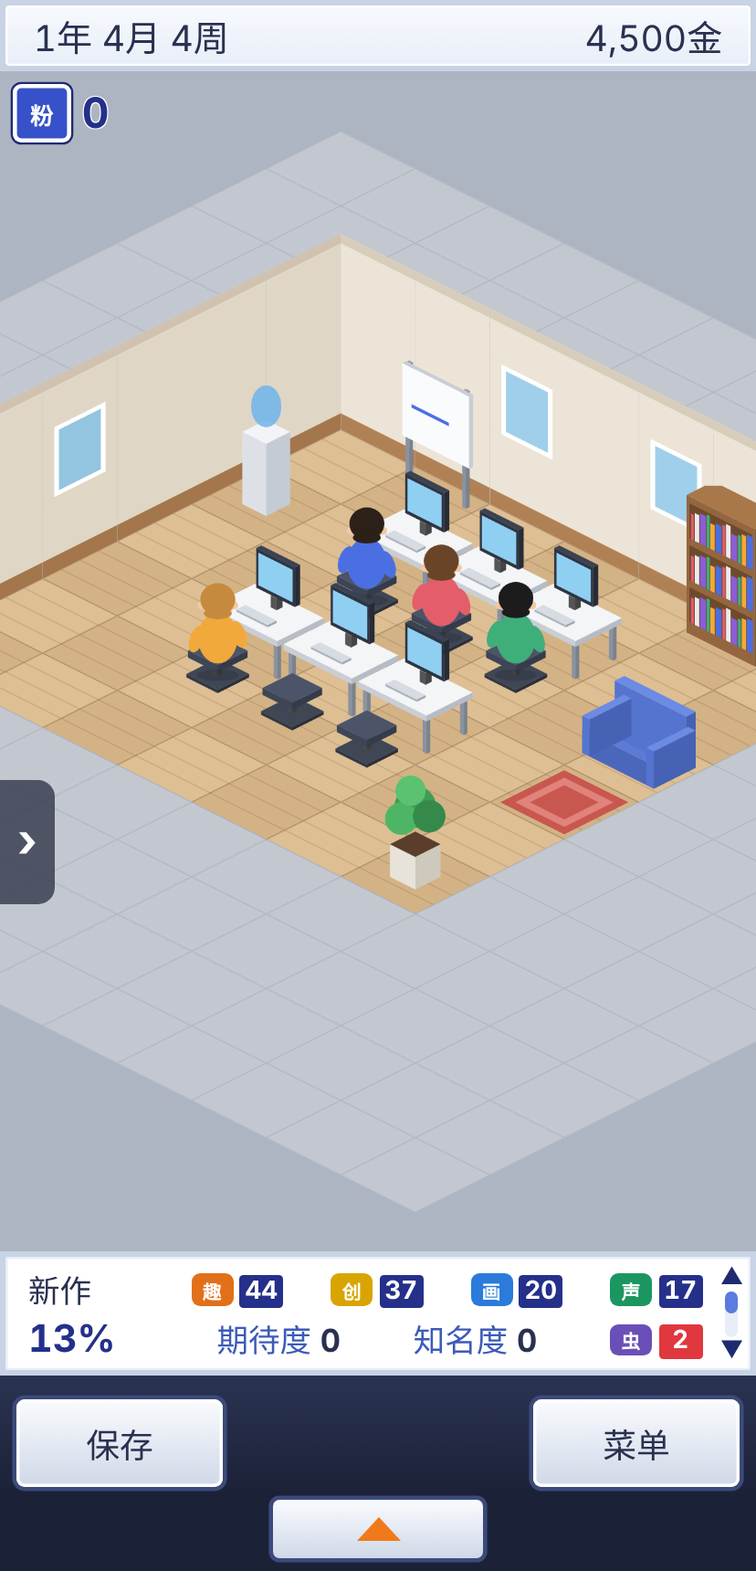
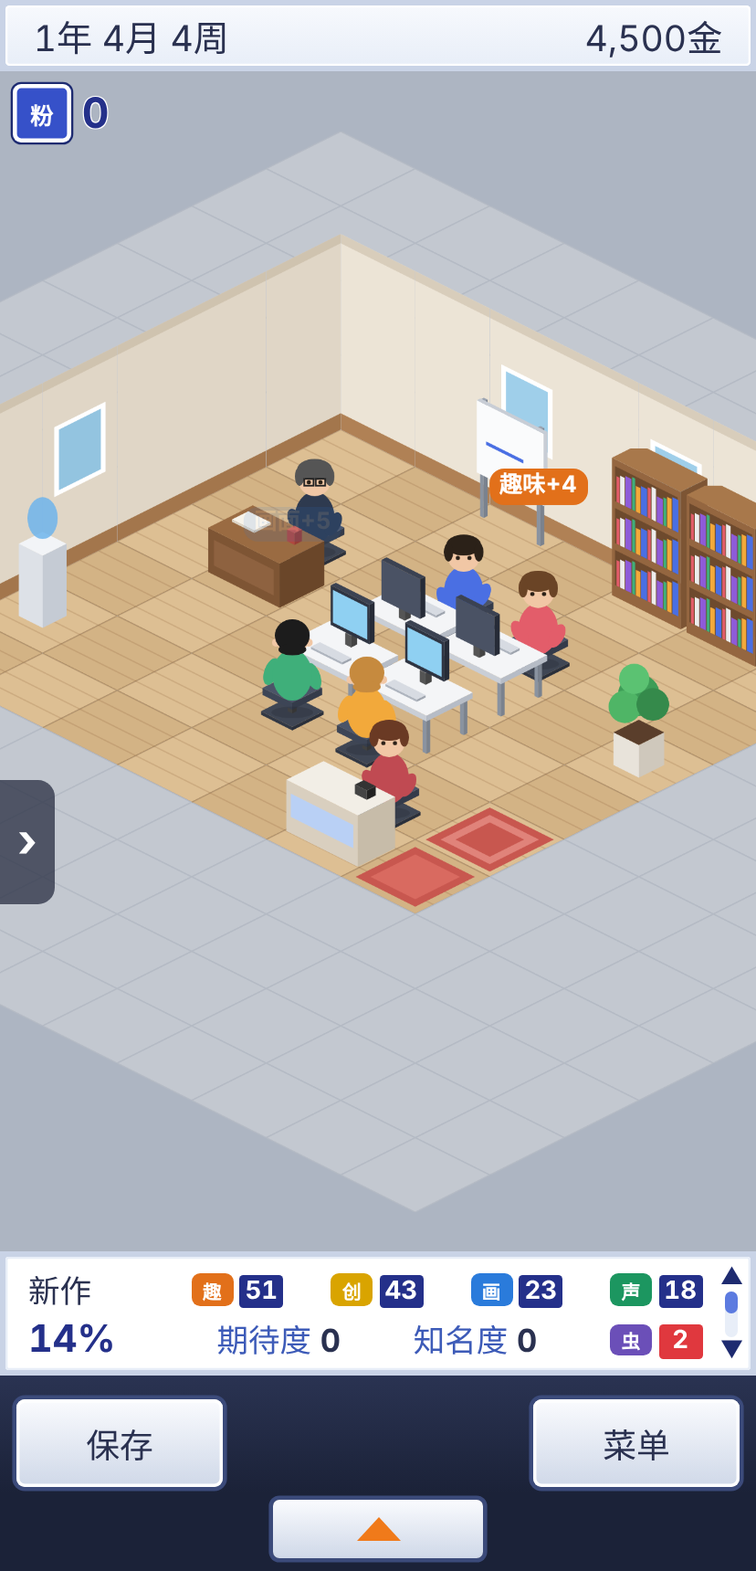
开发物语：初始办公室改为老板桌 + 秘书前台 + 4 人岛式工位，更新出图需求
- 场景：后排员工面朝镜头、前排背对镜头，新增老板、秘书及其桌子
- ASSETS.md：按 Codex 效果图风格重写，补图层拆分、正背面人物、对效果图的调整意见
- UI需求.md：补效果图反馈（底栏两侧按钮、抽屉把手），风格改为毛毡纸感
- docs/ui 截图更新

Claude-Session: https://claude.ai/code/session_01FMYqZQpsiHL5EF8t1x4YvR

diff --git a/games/kaifa-wuyu/index.html b/games/kaifa-wuyu/index.html
@@ -192,7 +192,10 @@ const M={
   wall_r:{w:64,h:200,ox:0,oy:168},wall_r_win:{w:64,h:200,ox:0,oy:168},wall_l:{w:64,h:200,ox:64,oy:168},wall_l_win:{w:64,h:200,ox:64,oy:168},
   desk:{...OBJ},chair:{w:128,h:96,ox:64,oy:64},shelf:{...OBJ},whiteboard:{...OBJ},plant:{...OBJ},sofa:{...OBJ},cooler:{...OBJ},
 };
-const CHAR_N=6;for(let i=0;i<CHAR_N;i++)for(const f of 'ab')M[`char_${i}_${f}`]={w:72,h:112,ox:36,oy:102};
+Object.assign(M,{desk_back:{...OBJ},boss_desk:{...OBJ},reception:{...OBJ},mat:{w:128,h:64,ox:64,oy:32}});
+const CHAR_N=4;const CH={w:72,h:112,ox:36,oy:102};
+for(let i=0;i<CHAR_N;i++)for(const v of ['back','front'])for(const f of 'ab')M[`char_${i}_${v}_${f}`]={...CH};
+for(const who of ['boss','secretary'])for(const f of 'ab')M[`${who}_${f}`]={...CH};
 
 // ================= 占位图绘制
 const SS=2;
@@ -217,6 +220,14 @@ const PAINT={
     box(g,cx,cy,{sx:.92,sy:.62,z:30,hh:5,top:'#F4F5F7',l:'#C9CED6',r:'#B6BCC6'});box(g,cx,cy,{y:-.14,sx:.08,sy:.08,z:35,hh:10,top:'#666',l:'#555',r:'#444'});
     box(g,cx,cy,{y:-.16,sx:.52,sy:.07,z:44,hh:34,top:'#3B4252',l:'#2E3442',r:'#262B37'});faceY(g,cx,cy,-.23,.23,-.125,47,75,'#8FD0F2');
     box(g,cx,cy,{y:.13,sx:.42,sy:.12,z:35,hh:2,top:'#D7DBE2',l:'#AEB4BE',r:'#9EA4AE'});},
+  desk_back(g,s){const cx=s.ox,cy=s.oy;for(const [a,b] of [[-.4,-.25],[.4,-.25],[-.4,.25],[.4,.25]])box(g,cx,cy,{x:a,y:b,sx:.05,sy:.05,hh:30,top:'#9AA3B0',l:'#8A93A0',r:'#7A828E'});
+    box(g,cx,cy,{sx:.92,sy:.62,z:30,hh:5,top:'#F4F5F7',l:'#C9CED6',r:'#B6BCC6'});box(g,cx,cy,{y:-.13,sx:.42,sy:.12,z:35,hh:2,top:'#D7DBE2',l:'#AEB4BE',r:'#9EA4AE'});
+    box(g,cx,cy,{y:.14,sx:.08,sy:.08,z:35,hh:10,top:'#666',l:'#555',r:'#444'});box(g,cx,cy,{y:.16,sx:.52,sy:.07,z:44,hh:34,top:'#3B4252',l:'#4A5264',r:'#262B37'});},
+  boss_desk(g,s){const cx=s.ox,cy=s.oy;box(g,cx,cy,{sx:.96,sy:.6,hh:38,top:'#9A6B42',l:'#7E5534',r:'#6A4629'});faceY(g,cx,cy,-.4,.4,.3,8,30,'#8E6240');
+    box(g,cx,cy,{x:-.25,y:-.05,sx:.3,sy:.22,z:38,hh:2,top:'#F7F3EA',l:'#DDD6C8',r:'#CFC7B8'});box(g,cx,cy,{x:.28,y:-.1,sx:.1,sy:.1,z:38,hh:10,top:'#C8574F',l:'#B04840',r:'#983C35'});},
+  reception(g,s){const cx=s.ox,cy=s.oy;box(g,cx,cy,{sx:.96,sy:.5,hh:44,top:'#F2EEE6',l:'#D9CFBF',r:'#C7BCA9'});faceY(g,cx,cy,-.42,.42,.25,14,34,'#B9D0F5');
+    box(g,cx,cy,{x:.25,y:-.08,sx:.16,sy:.12,z:44,hh:8,top:'#333',l:'#444',r:'#222'});},
+  mat(g){diamond(g,64,32,.8,'#C8574F');diamond(g,64,32,.6,'#D96A60');},
   chair(g,s){const cx=s.ox,cy=s.oy;box(g,cx,cy,{sx:.42,sy:.42,hh:3,top:'#3F4654',l:'#323844',r:'#2A2F3A'});box(g,cx,cy,{sx:.06,sy:.06,z:3,hh:14,top:'#555',l:'#4A4A4A',r:'#3E3E3E'});box(g,cx,cy,{sx:.4,sy:.4,z:17,hh:6,top:'#4B5468',l:'#3D4556',r:'#343B4A'});},
   shelf(g,s){const cx=s.ox,cy=s.oy;box(g,cx,cy,{y:-.28,sx:.92,sy:.36,hh:118,top:'#A8784B',l:'#946640',r:'#7D5534'});const cols=['#E35D6A','#4A6FE3','#F2A93B','#3FAF7A','#8E5BD8','#EDEDED'];let k=0;
     for(const z0 of [10,46,82]){faceY(g,cx,cy,-.42,.42,-.1,z0,z0+30,'#6E4A2D');let x=-.4;while(x<.36){const w=.04+(k%3)*.02;faceY(g,cx,cy,x,x+w,-.1,z0,z0+22+(k%4)*2,cols[(k++*5)%cols.length]);x+=w+.01;}}},
@@ -224,11 +235,16 @@ const PAINT={
   plant(g,s){const cx=s.ox,cy=s.oy;box(g,cx,cy,{sx:.34,sy:.34,hh:28,top:'#5A3E2B',l:'#E8E3DA',r:'#CFC8BC'});for(const [dx,dy,r,c] of [[0,-50,18,'#3E9D57'],[-12,-40,14,'#4FB566'],[12,-42,14,'#358A4B'],[-4,-64,13,'#5BC272']])circ(g,cx+dx,cy+dy-10,r,c);},
   sofa(g,s){const cx=s.ox,cy=s.oy;box(g,cx,cy,{sx:.96,sy:.56,z:4,hh:20,top:'#5B7BD6',l:'#4A67BC',r:'#3F59A6'});box(g,cx,cy,{y:-.22,sx:.96,sy:.13,z:4,hh:48,top:'#6C8BE3',l:'#5574CF',r:'#4762B5'});for(const a of [-.43,.43])box(g,cx,cy,{x:a,sx:.1,sy:.56,z:4,hh:32,top:'#6C8BE3',l:'#5574CF',r:'#4762B5'});},
   cooler(g,s){const cx=s.ox,cy=s.oy;box(g,cx,cy,{sx:.32,sy:.32,hh:62,top:'#F2F4F7',l:'#DDE1E7',r:'#C5CBD4'});ell(g,cx,cy-84,13,18,'rgba(110,180,235,.85)');},
-  char(g,s,k){const m=k.match(/char_(\d)_(a|b)/);const i=+m[1],b=m[2]==='b';const shirt=SHIRTS[i],hair=HAIRS[i],skin='#F1C7A5';
+  boss(g,s,k){front(g,'#2E3A4F','#555',k.endsWith('_b'),true);},
+  secretary(g,s,k){front(g,'#C04A52','#6A3A24',k.endsWith('_b'));},
+  char(g,s,k){const m=k.match(/char_(\d)_(back|front)_(a|b)/);const i=+m[1],b=m[3]==='b';const shirt=SHIRTS[i],hair=HAIRS[i],skin='#F1C7A5';if(m[2]==='front'){front(g,shirt,hair,b);return;}
     ell(g,36,100,18,5,'rgba(0,0,0,.12)');ell(g,18,66+(b?3:-1),6,12,shirt,.35);ell(g,54,66+(b?-1:3),6,12,shirt,-.35);ell(g,36,68,17,22,shirt);
     circ(g,22,40,3.5,skin);circ(g,50,40,3.5,skin);circ(g,36,37+(b?1:0),14,skin);ell(g,36,34+(b?1:0),15,14,hair);ell(g,36,46+(b?1:0),12,5,hair);}
 };
-function paint(k){const s=M[k];const cv=document.createElement('canvas');cv.width=s.w*SS;cv.height=s.h*SS;const g=cv.getContext('2d');g.scale(SS,SS);const fn=PAINT[k]||(k.startsWith('char_')?PAINT.char:null);if(fn)fn(g,s,k);return cv;}
+function front(g,shirt,hair,b,glasses){const skin='#F1C7A5',d=b?1:0;ell(g,36,100,18,5,'rgba(0,0,0,.12)');ell(g,36,70,17,22,shirt);
+  ell(g,20,74+(b?2:-1),6,11,shirt,-.5);ell(g,52,74+(b?-1:2),6,11,shirt,.5);circ(g,36,38+d,14,skin);ell(g,36,29+d,15,9,hair);ell(g,23,35+d,4,8,hair);ell(g,49,35+d,4,8,hair);
+  circ(g,31,40+d,1.8,'#2B2118');circ(g,41,40+d,1.8,'#2B2118');if(glasses){g.strokeStyle='#222';g.lineWidth=1.4;g.strokeRect(27,37+d,8,6);g.strokeRect(37,37+d,8,6);}}
+function paint(k){const s=M[k];const cv=document.createElement('canvas');cv.width=s.w*SS;cv.height=s.h*SS;const g=cv.getContext('2d');g.scale(SS,SS);const fn=PAINT[k]||(k.startsWith('char_')?PAINT.char:k.startsWith('boss_')?PAINT.boss:k.startsWith('secretary_')?PAINT.secretary:null);if(fn)fn(g,s,k);return cv;}
 
 // ================= WebGL 精灵批渲染
 const canvas=$('#gl');
@@ -255,16 +271,20 @@ function spr(k,x,y){if(nq>=MAXQ)return;const s=M[k],uv=UV[k];const x0=x-s.ox,y0=
 // ================= 场景布局
 const iso=(x,y)=>[(x-y)*TILE_W/2,(x+y)*TILE_H/2];
 const tc=(x,y)=>iso(x+.5,y+.5);
-const SEATS=[[2,1],[3,1],[4,1],[2,3],[3,3],[4,3]];
+// 4 人岛式工位：后排(y=2 的桌)人坐在桌后、面朝镜头；前排(y=3 的桌)人背对镜头
+const SEATS=[{d:[3,2],k:'b'},{d:[4,2],k:'b'},{d:[3,3],k:'a'},{d:[4,3],k:'a'}];
+const BOSS={d:[1,2]},SEC_SPOT={d:[5,5]};
 const SEAT_OFF=[22.4,-11.2];
-const DECOR=[['whiteboard',1,0],['shelf',5,0],['plant',6,0],['cooler',0,1],['sofa',6,2],['plant',0,5],['plant',6,5]];
+const DECOR=[['whiteboard',2,0],['shelf',4,0],['shelf',5,0],['plant',6,0],['cooler',0,4],['plant',0,5],['plant',6,2]];
 let staticFlat=[];
 function buildStatic(){staticFlat=[];
   for(let y=-4;y<ROOM_H+4;y++)for(let x=-4;x<ROOM_W+4;x++){const inRoom=x>=0&&y>=0&&x<ROOM_W&&y<ROOM_H;const [sx,sy]=tc(x,y);staticFlat.push([inRoom?((x+y)%2?'floor_b':'floor_a'):'outside',sx,sy]);}
-  {const [sx,sy]=tc(6,3);staticFlat.push(['rug',sx,sy]);}
+  {const [sx,sy]=tc(6,4);staticFlat.push(['rug',sx,sy]);}{const [sx,sy]=tc(6,5);staticFlat.push(['mat',sx,sy]);}
   for(let y=ROOM_H-1;y>=0;y--){const [sx,sy]=iso(0,y);staticFlat.push([y===3?'wall_l_win':'wall_l',sx,sy]);}
   for(let x=0;x<ROOM_W;x++){const [sx,sy]=iso(x,0);staticFlat.push([(x===2||x===4)?'wall_r_win':'wall_r',sx,sy]);}}
-function seatWorld(i){const [x,y]=SEATS[i];const [sx,sy]=tc(x,y+1);return [sx+SEAT_OFF[0],sy+SEAT_OFF[1]];}
+// k:'a' 人在桌前(y+1)背对镜头；k:'b' 人在桌后(y-1)面朝镜头。返回 [世界x, 世界y, 排序深度]
+function deskSeat(d,k){const [x,y]=d;if(k==='a'){const [sx,sy]=tc(x,y+1);return [sx+SEAT_OFF[0],sy+SEAT_OFF[1],x+y+.65];}const [sx,sy]=tc(x,y-1);return [sx-SEAT_OFF[0],sy-SEAT_OFF[1],x+y-.65];}
+function seatWorld(i){const s=SEATS[i];return deskSeat(s.d,s.k);}
 
 // ================= 镜头
 const cam={x:0,y:0,z:1,fit:true};let stageW=1,stageH=1;
@@ -331,7 +351,7 @@ function planForm(){const used=Object.values(plan.policy).reduce((a,b)=>a+b,0);
       row('类型',GN[plan.genre].n,GN[plan.genre],()=>picker('选择类型',GENRES.map(g=>({v:g.id,label:g.n,sub:'初'})),v=>{plan.genre=v;planForm();},planForm)),
       row('内容',TN[plan.type].n,TN[plan.type],()=>picker('选择内容',TYPES.map(t=>({v:t.id,label:t.n,sub:'初'})),v=>{plan.type=v;planForm();},planForm)),
       row('方针',used?`已分配 ${used} 点`:'普通开发',null,policyDlg),
-      h('div',{class:'staffstrip'},...S.staff.map(s=>h('i',{style:`background:${SHIRTS[s.look]}`})))));
+      h('div',{class:'staffstrip'},...S.staff.map(s=>h('i',{style:`background:${SHIRTS[s.look%4]}`})))));
   openDlg('新企划书',body,okFoot('确定',confirmPlan),[null,{label:'返回',fn:()=>{plan=null;closeDlg();}}]);$('#dlg').onclick=null;}
 function confirmPlan(){if(S.money<DEV_FEE){talk(['资金不够开发费用了……']);return;}
   talk(['企划书要交给谁来写呢？','剧本能力越高，游戏的趣味和创新越好。'],()=>picker('企划书负责人',[...S.staff].sort((a,b)=>b.scen-a.scen).map(s=>({v:s.id,label:s.name,sub:`${JOBN[s.job]} · 剧本 ${s.scen}`})),id=>{closeDlg();startProject(id);},planForm));}
@@ -430,10 +450,11 @@ function tapAt(x,y){for(const s of S.staff){const [wx,wy]=seatWorld(s.seat);cons
 function draw(t){if(!gl)return;gl.viewport(0,0,canvas.width,canvas.height);gl.clearColor(.68,.71,.76,1);gl.clear(gl.COLOR_BUFFER_BIT);
   nq=0;for(const [k,x,y] of staticFlat)spr(k,x,y);const items=[];
   for(const [k,x,y] of DECOR){const [sx,sy]=tc(x,y);items.push([x+y,k,sx,sy]);}
-  for(const [x,y] of SEATS){const [sx,sy]=tc(x,y);items.push([x+y,'desk',sx,sy]);}
+  for(const s of SEATS){const [x,y]=s.d;const [sx,sy]=tc(x,y);items.push([x+y,s.k==='a'?'desk':'desk_back',sx,sy]);}
+  for(const [who,o,desk] of [['boss',BOSS,'boss_desk'],['secretary',SEC_SPOT,'reception']]){const [x,y]=o.d;const [sx,sy]=tc(x,y);items.push([x+y,desk,sx,sy]);const [wx,wy,dd]=deskSeat(o.d,'b');items.push([dd-.01,'chair',wx,wy]);items.push([dd,`${who}_${Math.floor(t*.7+(who==='boss'?0:.5))%2?'b':'a'}`,wx,wy]);}
   const working=!!(S.project&&!S.project.awaiting)&&!blocking();
-  for(let i=0;i<SEATS.length;i++){const [x,y]=SEATS[i];const [wx,wy]=seatWorld(i);items.push([x+y+.64,'chair',wx,wy]);}
-  for(const s of S.staff){const [x,y]=SEATS[s.seat];const [wx,wy]=seatWorld(s.seat);const f=working?(Math.floor(t*5+s.seat*1.7)%2?'b':'a'):'a';items.push([x+y+.65,`char_${s.look%CHAR_N}_${f}`,wx,wy+(working?0:Math.sin(t*1.5+s.seat)*1.2)]);}
+  for(let i=0;i<SEATS.length;i++){const [wx,wy,dd]=seatWorld(i);items.push([dd-.01,'chair',wx,wy]);}
+  for(const s of S.staff){const [wx,wy,dd]=seatWorld(s.seat);const f=working?(Math.floor(t*5+s.seat*1.7)%2?'b':'a'):'a';items.push([dd,`char_${s.look%CHAR_N}_${SEATS[s.seat].k==='a'?'back':'front'}_${f}`,wx,wy+(working?0:Math.sin(t*1.5+s.seat)*1.2)]);}
   items.sort((a,b)=>a[0]-b[0]);for(const it of items)spr(it[1],it[2],it[3]);
   gl.uniform2f(uRes,stageW,stageH);gl.uniform3f(uCam,cam.x,cam.y,cam.z);gl.bindBuffer(gl.ARRAY_BUFFER,buf);gl.bufferSubData(gl.ARRAY_BUFFER,0,vdata.subarray(0,nq*48));gl.drawArrays(gl.TRIANGLES,0,nq*6);}
 let last=performance.now();

diff --git a/games/kaifa-wuyu/src/game.js b/games/kaifa-wuyu/src/game.js
@@ -34,7 +34,10 @@ const M={
   wall_r:{w:64,h:200,ox:0,oy:168},wall_r_win:{w:64,h:200,ox:0,oy:168},wall_l:{w:64,h:200,ox:64,oy:168},wall_l_win:{w:64,h:200,ox:64,oy:168},
   desk:{...OBJ},chair:{w:128,h:96,ox:64,oy:64},shelf:{...OBJ},whiteboard:{...OBJ},plant:{...OBJ},sofa:{...OBJ},cooler:{...OBJ},
 };
-const CHAR_N=6;for(let i=0;i<CHAR_N;i++)for(const f of 'ab')M[`char_${i}_${f}`]={w:72,h:112,ox:36,oy:102};
+Object.assign(M,{desk_back:{...OBJ},boss_desk:{...OBJ},reception:{...OBJ},mat:{w:128,h:64,ox:64,oy:32}});
+const CHAR_N=4;const CH={w:72,h:112,ox:36,oy:102};
+for(let i=0;i<CHAR_N;i++)for(const v of ['back','front'])for(const f of 'ab')M[`char_${i}_${v}_${f}`]={...CH};
+for(const who of ['boss','secretary'])for(const f of 'ab')M[`${who}_${f}`]={...CH};
 
 // ================= 占位图绘制
 const SS=2;
@@ -59,6 +62,14 @@ const PAINT={
     box(g,cx,cy,{sx:.92,sy:.62,z:30,hh:5,top:'#F4F5F7',l:'#C9CED6',r:'#B6BCC6'});box(g,cx,cy,{y:-.14,sx:.08,sy:.08,z:35,hh:10,top:'#666',l:'#555',r:'#444'});
     box(g,cx,cy,{y:-.16,sx:.52,sy:.07,z:44,hh:34,top:'#3B4252',l:'#2E3442',r:'#262B37'});faceY(g,cx,cy,-.23,.23,-.125,47,75,'#8FD0F2');
     box(g,cx,cy,{y:.13,sx:.42,sy:.12,z:35,hh:2,top:'#D7DBE2',l:'#AEB4BE',r:'#9EA4AE'});},
+  desk_back(g,s){const cx=s.ox,cy=s.oy;for(const [a,b] of [[-.4,-.25],[.4,-.25],[-.4,.25],[.4,.25]])box(g,cx,cy,{x:a,y:b,sx:.05,sy:.05,hh:30,top:'#9AA3B0',l:'#8A93A0',r:'#7A828E'});
+    box(g,cx,cy,{sx:.92,sy:.62,z:30,hh:5,top:'#F4F5F7',l:'#C9CED6',r:'#B6BCC6'});box(g,cx,cy,{y:-.13,sx:.42,sy:.12,z:35,hh:2,top:'#D7DBE2',l:'#AEB4BE',r:'#9EA4AE'});
+    box(g,cx,cy,{y:.14,sx:.08,sy:.08,z:35,hh:10,top:'#666',l:'#555',r:'#444'});box(g,cx,cy,{y:.16,sx:.52,sy:.07,z:44,hh:34,top:'#3B4252',l:'#4A5264',r:'#262B37'});},
+  boss_desk(g,s){const cx=s.ox,cy=s.oy;box(g,cx,cy,{sx:.96,sy:.6,hh:38,top:'#9A6B42',l:'#7E5534',r:'#6A4629'});faceY(g,cx,cy,-.4,.4,.3,8,30,'#8E6240');
+    box(g,cx,cy,{x:-.25,y:-.05,sx:.3,sy:.22,z:38,hh:2,top:'#F7F3EA',l:'#DDD6C8',r:'#CFC7B8'});box(g,cx,cy,{x:.28,y:-.1,sx:.1,sy:.1,z:38,hh:10,top:'#C8574F',l:'#B04840',r:'#983C35'});},
+  reception(g,s){const cx=s.ox,cy=s.oy;box(g,cx,cy,{sx:.96,sy:.5,hh:44,top:'#F2EEE6',l:'#D9CFBF',r:'#C7BCA9'});faceY(g,cx,cy,-.42,.42,.25,14,34,'#B9D0F5');
+    box(g,cx,cy,{x:.25,y:-.08,sx:.16,sy:.12,z:44,hh:8,top:'#333',l:'#444',r:'#222'});},
+  mat(g){diamond(g,64,32,.8,'#C8574F');diamond(g,64,32,.6,'#D96A60');},
   chair(g,s){const cx=s.ox,cy=s.oy;box(g,cx,cy,{sx:.42,sy:.42,hh:3,top:'#3F4654',l:'#323844',r:'#2A2F3A'});box(g,cx,cy,{sx:.06,sy:.06,z:3,hh:14,top:'#555',l:'#4A4A4A',r:'#3E3E3E'});box(g,cx,cy,{sx:.4,sy:.4,z:17,hh:6,top:'#4B5468',l:'#3D4556',r:'#343B4A'});},
   shelf(g,s){const cx=s.ox,cy=s.oy;box(g,cx,cy,{y:-.28,sx:.92,sy:.36,hh:118,top:'#A8784B',l:'#946640',r:'#7D5534'});const cols=['#E35D6A','#4A6FE3','#F2A93B','#3FAF7A','#8E5BD8','#EDEDED'];let k=0;
     for(const z0 of [10,46,82]){faceY(g,cx,cy,-.42,.42,-.1,z0,z0+30,'#6E4A2D');let x=-.4;while(x<.36){const w=.04+(k%3)*.02;faceY(g,cx,cy,x,x+w,-.1,z0,z0+22+(k%4)*2,cols[(k++*5)%cols.length]);x+=w+.01;}}},
@@ -66,11 +77,16 @@ const PAINT={
   plant(g,s){const cx=s.ox,cy=s.oy;box(g,cx,cy,{sx:.34,sy:.34,hh:28,top:'#5A3E2B',l:'#E8E3DA',r:'#CFC8BC'});for(const [dx,dy,r,c] of [[0,-50,18,'#3E9D57'],[-12,-40,14,'#4FB566'],[12,-42,14,'#358A4B'],[-4,-64,13,'#5BC272']])circ(g,cx+dx,cy+dy-10,r,c);},
   sofa(g,s){const cx=s.ox,cy=s.oy;box(g,cx,cy,{sx:.96,sy:.56,z:4,hh:20,top:'#5B7BD6',l:'#4A67BC',r:'#3F59A6'});box(g,cx,cy,{y:-.22,sx:.96,sy:.13,z:4,hh:48,top:'#6C8BE3',l:'#5574CF',r:'#4762B5'});for(const a of [-.43,.43])box(g,cx,cy,{x:a,sx:.1,sy:.56,z:4,hh:32,top:'#6C8BE3',l:'#5574CF',r:'#4762B5'});},
   cooler(g,s){const cx=s.ox,cy=s.oy;box(g,cx,cy,{sx:.32,sy:.32,hh:62,top:'#F2F4F7',l:'#DDE1E7',r:'#C5CBD4'});ell(g,cx,cy-84,13,18,'rgba(110,180,235,.85)');},
-  char(g,s,k){const m=k.match(/char_(\d)_(a|b)/);const i=+m[1],b=m[2]==='b';const shirt=SHIRTS[i],hair=HAIRS[i],skin='#F1C7A5';
+  boss(g,s,k){front(g,'#2E3A4F','#555',k.endsWith('_b'),true);},
+  secretary(g,s,k){front(g,'#C04A52','#6A3A24',k.endsWith('_b'));},
+  char(g,s,k){const m=k.match(/char_(\d)_(back|front)_(a|b)/);const i=+m[1],b=m[3]==='b';const shirt=SHIRTS[i],hair=HAIRS[i],skin='#F1C7A5';if(m[2]==='front'){front(g,shirt,hair,b);return;}
     ell(g,36,100,18,5,'rgba(0,0,0,.12)');ell(g,18,66+(b?3:-1),6,12,shirt,.35);ell(g,54,66+(b?-1:3),6,12,shirt,-.35);ell(g,36,68,17,22,shirt);
     circ(g,22,40,3.5,skin);circ(g,50,40,3.5,skin);circ(g,36,37+(b?1:0),14,skin);ell(g,36,34+(b?1:0),15,14,hair);ell(g,36,46+(b?1:0),12,5,hair);}
 };
-function paint(k){const s=M[k];const cv=document.createElement('canvas');cv.width=s.w*SS;cv.height=s.h*SS;const g=cv.getContext('2d');g.scale(SS,SS);const fn=PAINT[k]||(k.startsWith('char_')?PAINT.char:null);if(fn)fn(g,s,k);return cv;}
+function front(g,shirt,hair,b,glasses){const skin='#F1C7A5',d=b?1:0;ell(g,36,100,18,5,'rgba(0,0,0,.12)');ell(g,36,70,17,22,shirt);
+  ell(g,20,74+(b?2:-1),6,11,shirt,-.5);ell(g,52,74+(b?-1:2),6,11,shirt,.5);circ(g,36,38+d,14,skin);ell(g,36,29+d,15,9,hair);ell(g,23,35+d,4,8,hair);ell(g,49,35+d,4,8,hair);
+  circ(g,31,40+d,1.8,'#2B2118');circ(g,41,40+d,1.8,'#2B2118');if(glasses){g.strokeStyle='#222';g.lineWidth=1.4;g.strokeRect(27,37+d,8,6);g.strokeRect(37,37+d,8,6);}}
+function paint(k){const s=M[k];const cv=document.createElement('canvas');cv.width=s.w*SS;cv.height=s.h*SS;const g=cv.getContext('2d');g.scale(SS,SS);const fn=PAINT[k]||(k.startsWith('char_')?PAINT.char:k.startsWith('boss_')?PAINT.boss:k.startsWith('secretary_')?PAINT.secretary:null);if(fn)fn(g,s,k);return cv;}
 
 // ================= WebGL 精灵批渲染
 const canvas=$('#gl');
@@ -97,16 +113,20 @@ function spr(k,x,y){if(nq>=MAXQ)return;const s=M[k],uv=UV[k];const x0=x-s.ox,y0=
 // ================= 场景布局
 const iso=(x,y)=>[(x-y)*TILE_W/2,(x+y)*TILE_H/2];
 const tc=(x,y)=>iso(x+.5,y+.5);
-const SEATS=[[2,1],[3,1],[4,1],[2,3],[3,3],[4,3]];
+// 4 人岛式工位：后排(y=2 的桌)人坐在桌后、面朝镜头；前排(y=3 的桌)人背对镜头
+const SEATS=[{d:[3,2],k:'b'},{d:[4,2],k:'b'},{d:[3,3],k:'a'},{d:[4,3],k:'a'}];
+const BOSS={d:[1,2]},SEC_SPOT={d:[5,5]};
 const SEAT_OFF=[22.4,-11.2];
-const DECOR=[['whiteboard',1,0],['shelf',5,0],['plant',6,0],['cooler',0,1],['sofa',6,2],['plant',0,5],['plant',6,5]];
+const DECOR=[['whiteboard',2,0],['shelf',4,0],['shelf',5,0],['plant',6,0],['cooler',0,4],['plant',0,5],['plant',6,2]];
 let staticFlat=[];
 function buildStatic(){staticFlat=[];
   for(let y=-4;y<ROOM_H+4;y++)for(let x=-4;x<ROOM_W+4;x++){const inRoom=x>=0&&y>=0&&x<ROOM_W&&y<ROOM_H;const [sx,sy]=tc(x,y);staticFlat.push([inRoom?((x+y)%2?'floor_b':'floor_a'):'outside',sx,sy]);}
-  {const [sx,sy]=tc(6,3);staticFlat.push(['rug',sx,sy]);}
+  {const [sx,sy]=tc(6,4);staticFlat.push(['rug',sx,sy]);}{const [sx,sy]=tc(6,5);staticFlat.push(['mat',sx,sy]);}
   for(let y=ROOM_H-1;y>=0;y--){const [sx,sy]=iso(0,y);staticFlat.push([y===3?'wall_l_win':'wall_l',sx,sy]);}
   for(let x=0;x<ROOM_W;x++){const [sx,sy]=iso(x,0);staticFlat.push([(x===2||x===4)?'wall_r_win':'wall_r',sx,sy]);}}
-function seatWorld(i){const [x,y]=SEATS[i];const [sx,sy]=tc(x,y+1);return [sx+SEAT_OFF[0],sy+SEAT_OFF[1]];}
+// k:'a' 人在桌前(y+1)背对镜头；k:'b' 人在桌后(y-1)面朝镜头。返回 [世界x, 世界y, 排序深度]
+function deskSeat(d,k){const [x,y]=d;if(k==='a'){const [sx,sy]=tc(x,y+1);return [sx+SEAT_OFF[0],sy+SEAT_OFF[1],x+y+.65];}const [sx,sy]=tc(x,y-1);return [sx-SEAT_OFF[0],sy-SEAT_OFF[1],x+y-.65];}
+function seatWorld(i){const s=SEATS[i];return deskSeat(s.d,s.k);}
 
 // ================= 镜头
 const cam={x:0,y:0,z:1,fit:true};let stageW=1,stageH=1;
@@ -173,7 +193,7 @@ function planForm(){const used=Object.values(plan.policy).reduce((a,b)=>a+b,0);
       row('类型',GN[plan.genre].n,GN[plan.genre],()=>picker('选择类型',GENRES.map(g=>({v:g.id,label:g.n,sub:'初'})),v=>{plan.genre=v;planForm();},planForm)),
       row('内容',TN[plan.type].n,TN[plan.type],()=>picker('选择内容',TYPES.map(t=>({v:t.id,label:t.n,sub:'初'})),v=>{plan.type=v;planForm();},planForm)),
       row('方针',used?`已分配 ${used} 点`:'普通开发',null,policyDlg),
-      h('div',{class:'staffstrip'},...S.staff.map(s=>h('i',{style:`background:${SHIRTS[s.look]}`})))));
+      h('div',{class:'staffstrip'},...S.staff.map(s=>h('i',{style:`background:${SHIRTS[s.look%4]}`})))));
   openDlg('新企划书',body,okFoot('确定',confirmPlan),[null,{label:'返回',fn:()=>{plan=null;closeDlg();}}]);$('#dlg').onclick=null;}
 function confirmPlan(){if(S.money<DEV_FEE){talk(['资金不够开发费用了……']);return;}
   talk(['企划书要交给谁来写呢？','剧本能力越高，游戏的趣味和创新越好。'],()=>picker('企划书负责人',[...S.staff].sort((a,b)=>b.scen-a.scen).map(s=>({v:s.id,label:s.name,sub:`${JOBN[s.job]} · 剧本 ${s.scen}`})),id=>{closeDlg();startProject(id);},planForm));}
@@ -272,10 +292,11 @@ function tapAt(x,y){for(const s of S.staff){const [wx,wy]=seatWorld(s.seat);cons
 function draw(t){if(!gl)return;gl.viewport(0,0,canvas.width,canvas.height);gl.clearColor(.68,.71,.76,1);gl.clear(gl.COLOR_BUFFER_BIT);
   nq=0;for(const [k,x,y] of staticFlat)spr(k,x,y);const items=[];
   for(const [k,x,y] of DECOR){const [sx,sy]=tc(x,y);items.push([x+y,k,sx,sy]);}
-  for(const [x,y] of SEATS){const [sx,sy]=tc(x,y);items.push([x+y,'desk',sx,sy]);}
+  for(const s of SEATS){const [x,y]=s.d;const [sx,sy]=tc(x,y);items.push([x+y,s.k==='a'?'desk':'desk_back',sx,sy]);}
+  for(const [who,o,desk] of [['boss',BOSS,'boss_desk'],['secretary',SEC_SPOT,'reception']]){const [x,y]=o.d;const [sx,sy]=tc(x,y);items.push([x+y,desk,sx,sy]);const [wx,wy,dd]=deskSeat(o.d,'b');items.push([dd-.01,'chair',wx,wy]);items.push([dd,`${who}_${Math.floor(t*.7+(who==='boss'?0:.5))%2?'b':'a'}`,wx,wy]);}
   const working=!!(S.project&&!S.project.awaiting)&&!blocking();
-  for(let i=0;i<SEATS.length;i++){const [x,y]=SEATS[i];const [wx,wy]=seatWorld(i);items.push([x+y+.64,'chair',wx,wy]);}
-  for(const s of S.staff){const [x,y]=SEATS[s.seat];const [wx,wy]=seatWorld(s.seat);const f=working?(Math.floor(t*5+s.seat*1.7)%2?'b':'a'):'a';items.push([x+y+.65,`char_${s.look%CHAR_N}_${f}`,wx,wy+(working?0:Math.sin(t*1.5+s.seat)*1.2)]);}
+  for(let i=0;i<SEATS.length;i++){const [wx,wy,dd]=seatWorld(i);items.push([dd-.01,'chair',wx,wy]);}
+  for(const s of S.staff){const [wx,wy,dd]=seatWorld(s.seat);const f=working?(Math.floor(t*5+s.seat*1.7)%2?'b':'a'):'a';items.push([dd,`char_${s.look%CHAR_N}_${SEATS[s.seat].k==='a'?'back':'front'}_${f}`,wx,wy+(working?0:Math.sin(t*1.5+s.seat)*1.2)]);}
   items.sort((a,b)=>a[0]-b[0]);for(const it of items)spr(it[1],it[2],it[3]);
   gl.uniform2f(uRes,stageW,stageH);gl.uniform3f(uCam,cam.x,cam.y,cam.z);gl.bindBuffer(gl.ARRAY_BUFFER,buf);gl.bufferSubData(gl.ARRAY_BUFFER,0,vdata.subarray(0,nq*48));gl.drawArrays(gl.TRIANGLES,0,nq*6);}
 let last=performance.now();

diff --git a/games/kaifa-wuyu/ASSETS.md b/games/kaifa-wuyu/ASSETS.md
@@ -1,49 +1,93 @@
-# 开发物语 · 场景一（办公室）美术需求 — 给 Codex
+# 开发物语 · 场景一（初始办公室）出图需求 — 给 Codex
+
+风格以 Codex 第一版效果图为准：毛毡 / 纸感手作风，暖色，非像素。
+这一版效果图整体方向通过，下面是**拆成游戏素材**的规格，以及效果图需要调整的地方。
+UI 部分见 `UI需求.md`。
+
+## 场景构成（和原作一致）
+
+- 老板一张桌（老板坐着，面朝镜头）
+- 秘书一张前台（秘书坐着，面朝镜头，靠近门口）
+- 员工 4 人岛式工位：2×2 拼桌，后排 2 人面朝镜头，前排 2 人背对镜头
+- 装饰：白板、书架 ×2、饮水机、盆栽 ×2、地毯、门口脚垫
+- 以后办公室扩建时再加座位，这一版**只画 4 个工位**
+
+程序里的占位图已经按这个布局摆好了，截图见 `docs/ui/01-主界面.png`，Codex 可以对照它的位置来画。
+
+## 对效果图的调整意见
+
+1. **严格按 2:1 等角网格画**：1 格 = 128×64 的菱形。效果图的墙和桌子比 2:1 陡，拆开后会和地板对不上。
+2. **桌面上方留出空间**：员工头顶会冒「趣味 +3」之类的气泡，要能看清。
+3. **房间不要堆满**：书架、绿植往墙边收，中间走道留出来。
+4. **加上老板桌和秘书前台**：效果图里没有这两个。
+5. **人物分正面和背面两套**：后排员工、老板、秘书用正面，前排员工用背面。
 
 ## 通用规则
-- 视角：等角（isometric），地块 2:1 菱形，1 格 = 128 × 64 世界像素。
-- 光源：左上方。物体可见面为「左前面」和「右前面」+ 顶面。
-- 交付：透明 PNG，**按表中尺寸的 2 倍出图**（例如 128×176 → 256×352）。游戏会按表中尺寸缩放，比例不对会被拉伸。
-- 锚点：表中「锚点」是图内坐标（1x 尺寸下），这个点会落在地块中心的地面上。物体底部中心请对准它。
-- 文件名 = key，例如 `desk.png`、`char_0_a.png`。
-- 预览方法：把图片交给程序接入（导入功能在精简版中已去掉）。
-- 正式接入：把图片放进 `assets/` 并附 `assets/index.json`（内容是 key 数组，如 `["desk","chair"]`），页面启动时自动加载。
-- 风格：非像素风（具体风格由你定），保持全套统一。
+
+- 交付透明 PNG，**按表中尺寸的 2 倍出图**。
+- 「锚点」是图内坐标（1x 尺寸下），这个点落在所在地块中心的地面上。物体底部中心对准它。
+- 文件名 = key。
+- 接入方式：放进 `games/kaifa-wuyu/assets/`，并把 key 列表写进 `assets/index.json`（例如 `["desk","chair"]`），游戏启动时自动替换占位图。
+
+## 图层
+
+| 层 | key | 1x 尺寸 | 说明 |
+|---|---|---|---|
+| 远景 | bg_city | 1600×1400 | 房间外的街道、房子、树、车，一整张不动的大图。房间位置留空（透明或被房间盖住都行）。锚点：房间后墙角落在图中 (800, 420) |
+| 地面 | outside / floor_a / floor_b | 128×64 | 室外地砖、室内地板 A/B（棋盘交替），菱形，四边无缝 |
+| 墙 | wall_r / wall_r_win / wall_l / wall_l_win | 64×200 | 后墙段、左墙段，各有带窗版 |
+| 家具 | 见下表 | | 每件单独一张 |
+| 人物 | 见下表 | | 每人 2 帧 |
+
+`bg_city` 程序还没接入，图到了我再接。
 
 ## 地面 / 墙
+
 | key | 1x 尺寸 | 锚点 | 说明 |
 |---|---|---|---|
-| outside | 128×64 | 64,32 | 室外地面砖，菱形，四边无缝 |
-| floor_a | 128×64 | 64,32 | 办公室地板 A（与 B 棋盘交替） |
+| outside | 128×64 | 64,32 | 室外地面砖 |
+| floor_a | 128×64 | 64,32 | 办公室地板 A |
 | floor_b | 128×64 | 64,32 | 办公室地板 B |
-| rug | 128×64 | 64,32 | 地毯（一格大小） |
-| wall_r | 64×200 | 0,168 | 后墙一段，向右下延伸；墙高 168，左下角是锚点 |
+| rug | 128×64 | 64,32 | 地毯（一格） |
+| mat | 128×64 | 64,32 | 门口脚垫（一格） |
+| wall_r | 64×200 | 0,168 | 后墙一段，向右下延伸，墙高 168，左下角是锚点 |
 | wall_r_win | 64×200 | 0,168 | 后墙一段，带窗 |
-| wall_l | 64×200 | 64,168 | 左墙一段，向左下延伸；右下角是锚点 |
+| wall_l | 64×200 | 64,168 | 左墙一段，向左下延伸，右下角是锚点 |
 | wall_l_win | 64×200 | 64,168 | 左墙一段，带窗 |
 
-墙段形状：平行四边形，底边沿地块边缘倾斜 32px（64 宽内下降 32）。
+墙段形状：平行四边形，底边沿地块边缘倾斜（64 宽内下降 32）。
 
-## 家具（占 1 格）
+## 家具（每件占 1 格）
+
 | key | 1x 尺寸 | 锚点 | 说明 |
 |---|---|---|---|
-| desk | 128×176 | 64,144 | 工位桌 + 显示器，屏幕朝镜头（朝左下），员工坐在桌子前方背对镜头 |
-| chair | 128×96 | 64,64 | 办公椅，背对镜头 |
-| shelf | 128×176 | 64,144 | 书架，靠后墙（物体整体偏向格子后半部） |
+| desk | 128×176 | 64,144 | 前排工位桌：显示器在桌子靠后的一侧，**屏幕朝镜头**，人坐在桌前背对镜头 |
+| desk_back | 128×176 | 64,144 | 后排工位桌：显示器在桌子靠前的一侧，**看到显示器背面**，人坐在桌后面朝镜头 |
+| chair | 128×96 | 64,64 | 办公椅（所有座位共用） |
+| boss_desk | 128×176 | 64,144 | 老板桌：木质大桌，比工位桌气派，可放文件、电话 |
+| reception | 128×176 | 64,144 | 秘书前台：柜台式，正面朝镜头 |
+| shelf | 128×176 | 64,144 | 书架，靠后墙，放游戏盒和公仔 |
 | whiteboard | 128×176 | 64,144 | 白板，靠后墙 |
 | plant | 128×176 | 64,144 | 盆栽 |
-| sofa | 128×176 | 64,144 | 沙发，正面朝镜头 |
 | cooler | 128×176 | 64,144 | 饮水机 |
 
-## 员工（6 种外观 × 2 帧）
+4 张工位桌拼成 2×2 的岛：后排两张 `desk_back`，前排两张 `desk`，拼在一起时桌面要接得上。
+
+## 人物（坐姿，每个 2 帧，用于工作动画）
+
 | key | 1x 尺寸 | 锚点 | 说明 |
 |---|---|---|---|
-| char_0_a … char_5_a | 72×112 | 36,102 | 坐姿背影，敲键盘帧 1 |
-| char_0_b … char_5_b | 72×112 | 36,102 | 坐姿背影，敲键盘帧 2（手/头微动） |
+| char_0…3_back_a / _b | 72×112 | 36,102 | 员工背影，敲键盘 2 帧（手、头微动） |
+| char_0…3_front_a / _b | 72×112 | 36,102 | 同一员工的正面，敲键盘 2 帧 |
+| boss_a / boss_b | 72×112 | 36,102 | 老板，正面，坐姿，2 帧（翻文件 / 点头） |
+| secretary_a / secretary_b | 72×112 | 36,102 | 秘书，正面，坐姿，2 帧 |
 
-锚点是臀部落座点；角色画在椅子上方，比例参考：头顶到锚点约 90px。
+锚点是臀部落座点，头顶到锚点约 90px。4 名员工外观要容易区分（发型、衣服颜色）。秘书的样子要和 UI 对话框里的秘书头像（`ui_secretary`）一致。
 
-## 下一批（暂未接入，可提前设计）
-- 点数气泡图标：趣味 / 创意 / 画面 / 声音 / Bug
-- 员工正面立绘（详情页用）
-- 第二、三个办公室（扩建）
+## 交付顺序
+
+1. 地板、墙、4 张工位桌、椅子（先把房间拼起来）
+2. 4 名员工的正面和背面
+3. 老板、秘书和他们的桌子
+4. 装饰
+5. 远景 bg_city

diff --git a/games/kaifa-wuyu/UI需求.md b/games/kaifa-wuyu/UI需求.md
@@ -8,10 +8,20 @@
 
 - 设计分辨率 **720 宽**（高度随屏幕变，中间场景区伸缩）。下文尺寸都是 720 宽下的设计像素。
 - 交付 **2 倍图**（尺寸 ×2），透明 PNG，文件名用下表的 key。
-- 风格：**不要像素风**。参考原作的配色和层级（浅蓝白面板、深蓝底栏、绿色选中、蓝色标签条），做成干净的扁平/轻立体风格。全套统一。
+- 风格：以 Codex 第一版效果图为准（毛毡 / 纸感手作风，米白纸板面板，深青绿底栏，绿色选中）。全套统一。
+- 九宫格的拉伸区用纯色或可平铺纹理，避免拉伸后纹理变形、缩小后出现摩尔纹。
 - 能拉伸的框一律做 **九宫格**：表里「九宫格」一栏是四边不拉伸的宽度（上,右,下,左）。
 - 按钮都要 **常态 / 按下** 两个状态；菜单项、选项行另有 **选中**。
 - 文字由程序渲染，图里**不要带字**（图标里的符号除外）。
+
+## 对第一版效果图的反馈
+
+方向通过。需要补和改的：
+
+1. **底栏两侧按钮必须画**：左下「保存 / 帮助」、**右下角「菜单 / 返回」**，以及无功能时的空槽。效果图里底栏只有中间的上拉箭头，这是布局里最重要的一处。
+2. **左侧抽屉把手「›」漏了**，位置在场景左边缘、中间偏下。
+3. 顶栏加的金币图标和分隔线保留，日期后面留一个小圆点位置（时间流动时会闪）。
+4. 菜单图标（手柄、头像、楼房、本子、扳手）很好，直接按这套出单图。
 
 ## 屏幕分区
 
@@ -78,7 +88,7 @@
 | ui_form_value_sel | 324×60 | 8,8,8,0 | 数值格选中（浅蓝） |
 | ui_genre_icon_<id> | 44×44 | — | 类型图标 ×6：board 桌上游戏、act 动作、adv 冒险、rpg 角色扮演、sim 模拟、puz 解谜 |
 | ui_type_icon_<id> | 44×44 | — | 内容图标 ×6：treasure 寻宝、ninja 忍者、robot 机器人、space 太空、school 校园、cook 料理 |
-| ui_staff_mini_0…5 | 34×70 | — | 表单下方站成一排的小人（正面全身），6 种外观，和场景员工对应 |
+| ui_staff_mini_0…3 | 34×70 | — | 表单下方站成一排的小人（正面全身），4 种外观，和场景员工对应 |
 
 ### 选择列表（截图 05）
 
